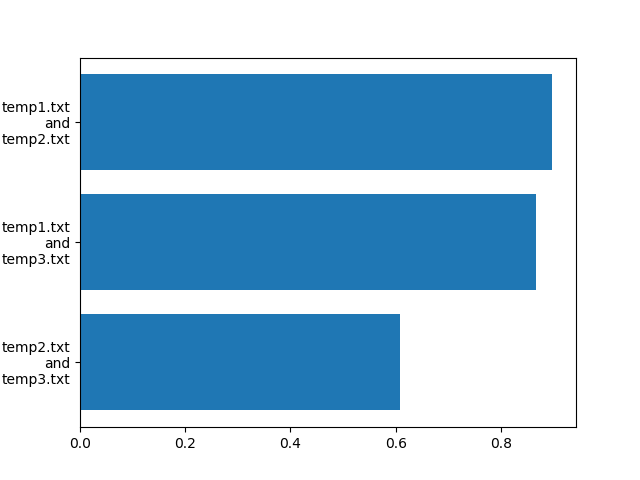
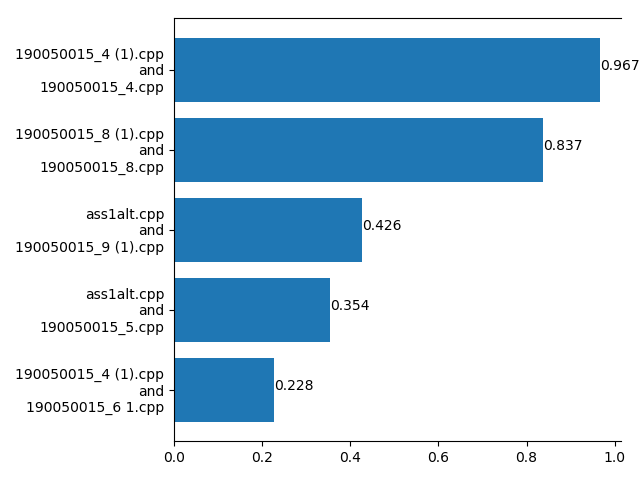
Implemented pre-processing to remove comments from C++ and Py code and also extra whitespace

diff --git a/backend_LSA/mainBack.py b/backend_LSA/mainBack.py
@@ -1,10 +1,59 @@
 import os
 import sys
 import shutil
+import re
 import numpy as np
 import scipy.spatial.distance
 from zipfile import ZipFile
 import matplotlib.pyplot as plt
+
+def do_file(fname):
+    """ Run on just one file.
+    """
+    source = open(fname)
+    mod = open(fname + ",strip", "w")
+
+    prev_toktype = token.INDENT
+    first_line = None
+    last_lineno = -1
+    last_col = 0
+
+    tokgen = tokenize.generate_tokens(source.readline)
+    for toktype, ttext, (slineno, scol), (elineno, ecol), ltext in tokgen:
+        if 0:   # Change to if 1 to see the tokens fly by.
+            print("%10s %-14s %-20r %r" % (
+                tokenize.tok_name.get(toktype, toktype),
+                "%d.%d-%d.%d" % (slineno, scol, elineno, ecol),
+                ttext, ltext
+                ))
+        if slineno > last_lineno:
+            last_col = 0
+        if scol > last_col:
+            mod.write(" " * (scol - last_col))
+        if toktype == token.STRING and prev_toktype == token.INDENT:
+            # Docstring
+            mod.write("#--")
+        elif toktype == tokenize.COMMENT:
+            # Comment
+            mod.write("##\n")
+        else:
+            mod.write(ttext)
+        prev_toktype = toktype
+        last_col = ecol
+        last_lineno = elineno
+
+def comment_remover_cpp(text):
+    def replacer(match):
+        s = match.group(0)
+        if s.startswith('/'):
+            return " " # note: a space and not an empty string
+        else:
+            return s
+    pattern = re.compile(
+        r'//.*?$|/\*.*?\*/|\'(?:\\.|[^\\\'])*\'|"(?:\\.|[^\\"])*"',
+        re.DOTALL | re.MULTILINE
+    )
+    return re.sub(pattern, replacer, text)
 
 def cosine_similarity(c1, c2):
 	if(c1.shape != c2.shape):
@@ -42,16 +91,27 @@ if __name__ == "__main__":
 	* Remove comments
 	"""
 	for i in range(numFiles):
-		f = os.path.join(directory, filenames[i])
-		f = open(f, "r")
-		for line in f:
-			for word in line.split():
+		tempF = os.path.join(directory, filenames[i])
+		fileExt = (os.path.splitext(tempF))[1]
+		if(fileExt == '.py'):
+			do_file(tempF)
+		with open(tempF,'r') as readF:
+			f = readF.read()
+			# print(f)
+			# print()
+			if(fileExt == '.cpp'):
+				f = comment_remover_cpp(f)
+			f = f.replace('\n', '').replace('\r', '').replace('\t', '')
+			re.sub(' +',' ',f)
+			# print(f)
+			# print(f)
+			for word in f.split():
 				if(word not in baseDict.keys()):
 					baseDict[word] = [0] * numFiles
 				baseDict[word][i] += 1
 
 	baseArray = np.array(list(baseDict.values()))
-	#print(baseArray)
+	# print(baseArray)
 
 	#Do some weighting to the matrix
 	"""
@@ -71,13 +131,25 @@ if __name__ == "__main__":
 
 	u, s, v = np.linalg.svd(baseArray, False)
 	# print(baseArray.shape[0])
-	lowRank = 1+int(np.cbrt(baseArray.shape[0]))
+	lowRank = 1+int(np.sqrt(baseArray.shape[0]))
+	
+	if (lowRank < numFiles):
+		lowRank = numFiles+1
+
+
 	# print(lowRank)
 	if(lowRank > 300):
 		lowRank = 300
 
-	uRed = u[:lowRank, :lowRank]
+	uRed = u[:lowRank, :]
 	sRed = np.diag(s[:lowRank])
+
+	# print(baseArray.shape)
+	# print(lowRank)
+
+	# print(uRed.shape)
+	# print(sRed.shape)
+	# print(v.shape)
 	
 	arrRed = np.dot(np.dot(uRed, sRed), v)
 
@@ -86,7 +158,7 @@ if __name__ == "__main__":
 	with open(outpFile, 'w') as f:
 		for i in range(numFiles):
 			f.write(filenames[i]+",")
-			print(filenames[i]+",")
+			# print(filenames[i]+",")
 		f.write("\n")
 		for i in range(numFiles):
 			finalRes[i,i] = 1.0
@@ -108,8 +180,16 @@ if __name__ == "__main__":
 	top5Names = [key for key in sorted(dicTop5)]
 	top5Coeffs = [dicTop5[key] for key in top5Names]
 	
-	plt.barh(range(len(dicTop5)), top5Names)
+	fig, ax = plt.subplots()
+	ax.barh(range(len(dicTop5)), top5Names)
 	plt.yticks(range(len(dicTop5)), top5Coeffs)
+
+	for index, value in enumerate(top5Names):
+	    plt.text(value, index, str(round(value,3)))
+	right_side = ax.spines["right"]
+	right_side.set_visible(False)
+
+	plt.tight_layout()
 	plt.savefig(outpPng)
 	
 	
@@ -117,4 +197,3 @@ if __name__ == "__main__":
 		shutil.rmtree('inputDir')
 	except OSError as error:
 		print("Directory does not exist.")
-	
